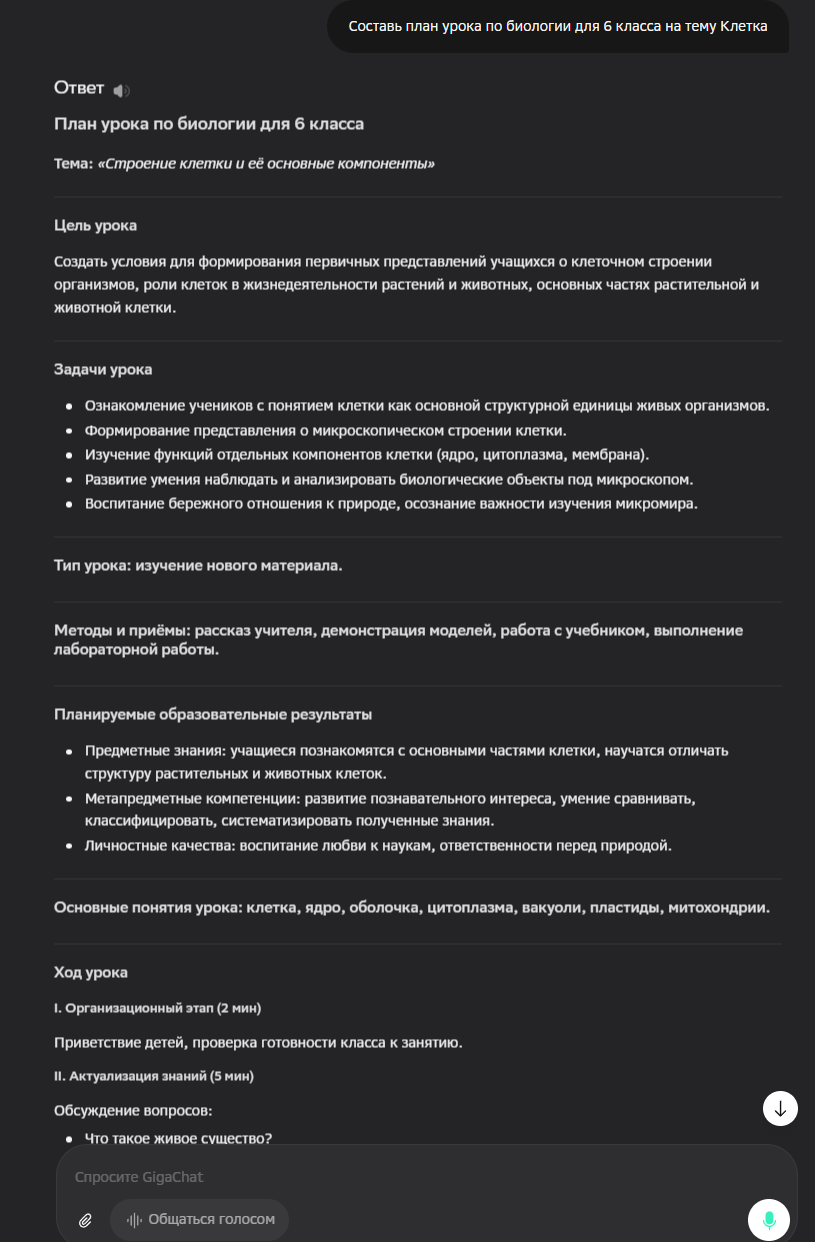
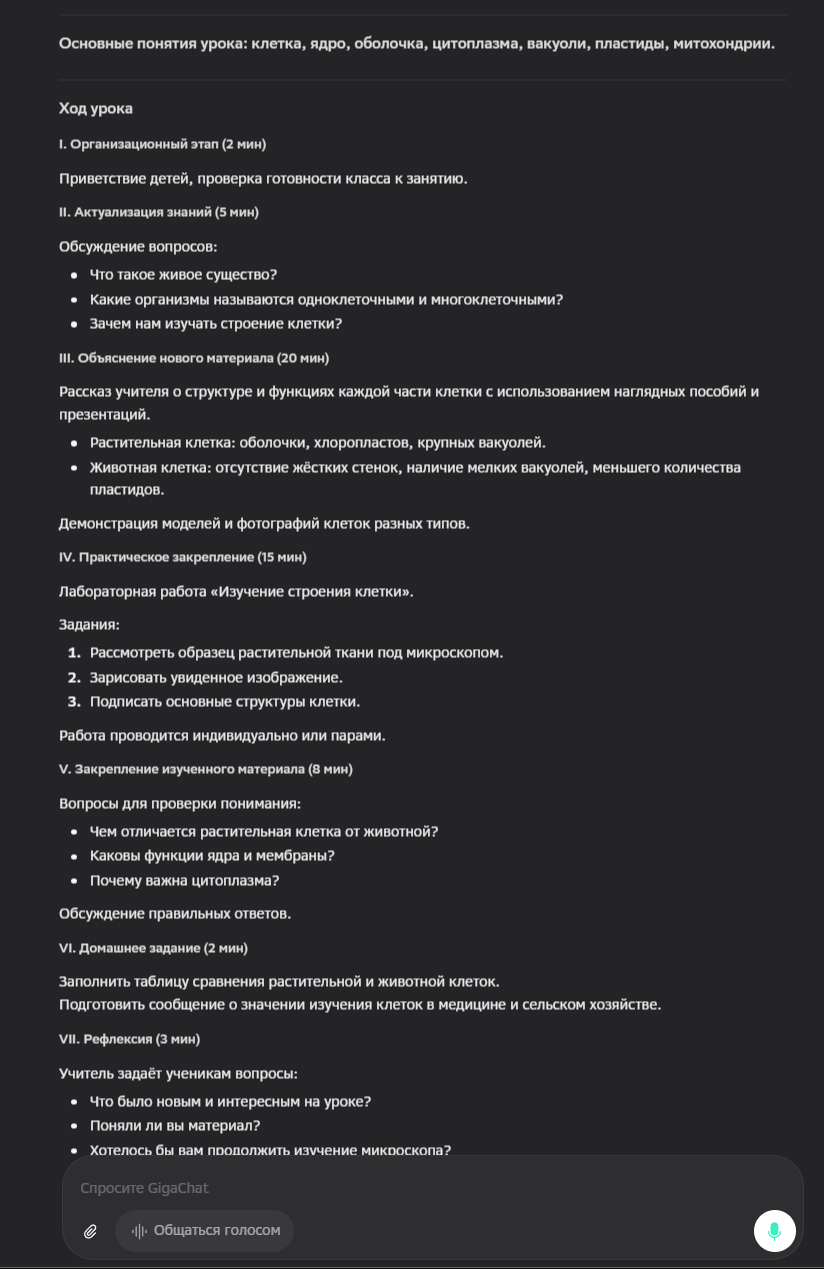
апдейт
фикс

Changed region(s): [[0.0613, 0.0, 0.9509, 1.0], [0.8896, 0.9485, 0.9816, 1.0], [0.9202, 0.8567, 0.9816, 0.9179]]

diff --git a/ai-foundations/Lab1/README.md b/ai-foundations/Lab1/README.md
@@ -50,43 +50,64 @@
 
 ### Инструмент 1: GigaChat (Отечественное решение)
 **Задача:** Составление плана урока по биологии для 6 класса на тему «Клетка».
-- **Результат:** Модель составила подробный план с целями, задачами и ходом урока. Качество русского языка отличное.
-- **Оценка:** 5/5
+**Промт:** *«Составь план урока по биологии для 6 класса на тему Клетка»*
+
+| Параметр | Оценка (1-5) | Комментарий |
+|---|---|---|
+| Качество результата | 5 | План содержит все необходимые этапы: цели, задачи, ход урока, закрепление и рефлексию. |
+| Поддержка русского языка| 5 | Текст методически грамотный, без ошибок. |
+| **Итоговая оценка** | **5** | Отличный результат для быстрой подготовки к занятиям. |
 
 **Результат работы:**
-![GigaChat 1](screenshots/gigachat_1.png)
-![GigaChat 2](screenshots/gigachat_2.png)
-![GigaChat 3](screenshots/gigachat_3.png)
+![GigaChat Screenshot 1](screenshots/gigachat_1.png)
+![GigaChat Screenshot 2](screenshots/gigachat_2.png)
+![GigaChat Screenshot 3](screenshots/gigachat_3.png)
+
+---
 
 ### Инструмент 2: Шедеврум (Отечественное решение)
-**Задача:** Генерация иллюстрации строения растительной клетки.
-- **Результат:** Сгенерировано качественное изображение, подходящее для вставки в презентацию. Очень простая регистрация.
-- **Оценка:** 5/5
+**Задача:** Генерация иллюстрации строения растительной клетки для презентации.
+**Промт:** *«Строение растительной клетки, биологическая иллюстрация для учебника, вид под микроскопом, четкие детали, высокая детализация»*
+
+| Параметр | Оценка (1-5) | Комментарий |
+|---|---|---|
+| Качество изображения | 5 | Изображение четкое, наглядное, подходит для образовательных целей. |
+| Удобство использования | 5 | Быстрая генерация, понятный интерфейс на русском языке. |
+| **Итоговая оценка** | **5** | Эффективный инструмент для создания уникального визуального контента. |
 
 **Результат работы:**
-![Шедеврум](screenshots/shedevrum_1.png)
+![Shedevrum Screenshot](screenshots/shedevrum_1.png)
+
+---
 
 ### Инструмент 3: DeepSeek (Зарубежное решение)
-**Задача:** Генерация сложного теста из 5 вопросов по биологии.
-- **Результат:** Нейросеть отлично справилась с логикой вопросов, ключи к ответам верные.
-- **Оценка:** 5/5
+**Задача:** Генерация сложного проверочного теста по теме «Клетка».
+**Промт:** *«Составь сложный проверочный тест из 5 вопросов про строение клетки для 6 класса с вариантами ответов и ключом в конце»*
+
+| Параметр | Оценка (1-5) | Комментарий |
+|---|---|---|
+| Логика вопросов | 5 | Вопросы действительно требуют понимания материала, а не простого зазубривания. |
+| Точность ключей | 5 | Все ответы в ключе соответствуют вопросам, логических ошибок нет. |
+| **Итоговая оценка** | **5** | Мощный инструмент для создания контрольно-измерительных материалов. |
 
 **Результат работы:**
-![DeepSeek 1](screenshots/deepseek_1.png)
-![DeepSeek 2](screenshots/deepseek_2.png)
+![DeepSeek Screenshot 1](screenshots/deepseek_1.png)
+![DeepSeek Screenshot 2](screenshots/deepseek_2.png)
+
+---
 
 ## Задание 3. Анализ дополнительных возможностей
 
 ### 3.1. Выявление неочевидных задач
 1. **Генерация идей для школьных проектов:** ИИ помогает быстро набросать темы для проектной деятельности.
-2. **Адаптация текста:** Пересказ сложного параграфа простыми словами для учеников.
-3. **Создание субтитров:** Автоматический перевод видео в текст для создания методичек.
+2. **Адаптация текста:** Пересказ сложного параграфа простыми словами для разных уровней подготовки.
+3. **Создание субтитров:** Автоматическая транскрибация видеоуроков.
 
 ### 3.2. Составление ручных цепочек инструментов (Workflow)
-1. **GigaChat:** Пишем текст лекции и подробный план урока.
-2. **DeepSeek:** На основе текста лекции создаем проверочный тест.
-3. **Шедеврум:** Генерируем уникальные иллюстрации для слайдов.
-4. **Online Test Pad:** Сборка итогового теста для учеников.
+1. **GigaChat:** Генерация плана урока и базового текста лекции.
+2. **DeepSeek:** Создание набора тестов на основе подготовленной лекции.
+3. **Шедеврум:** Создание тематических иллюстраций для слайдов презентации.
+4. **Online Test Pad:** Публикация теста в интерактивном формате для учеников.
 
 ## Задание 4. Сравнительный анализ
 
@@ -98,9 +119,9 @@
 | Понимание логики | Хорошее | Хорошее | Отличное |
 
 ### 4.2. Выводы
-1. Для разработки методических материалов на русском языке удобнее всего использовать **GigaChat**.
-2. Для создания визуального контента **Шедеврум** — самое быстрое решение для учителя.
-3. Использование связки инструментов (Workflow) позволяет сократить время на подготовку к урокам в 3-4 раза.
+1. Для разработки методических материалов на русском языке эффективнее использовать **GigaChat**.
+2. Для создания визуального контента **Шедеврум** является самым быстрым и качественным решением.
+3. Связка ИИ-инструментов позволяет автоматизировать до 70% рутинной подготовки педагога.
 
 ## 5. Итоговый набор инструментов
-Мой выбор: **GigaChat** (тексты), **Шедеврум** (картинки), **DeepSeek** (тесты/логика).
+Мой выбор: **GigaChat** (планирование), **Шедеврум** (визуализация), **DeepSeek** (тестирование).
